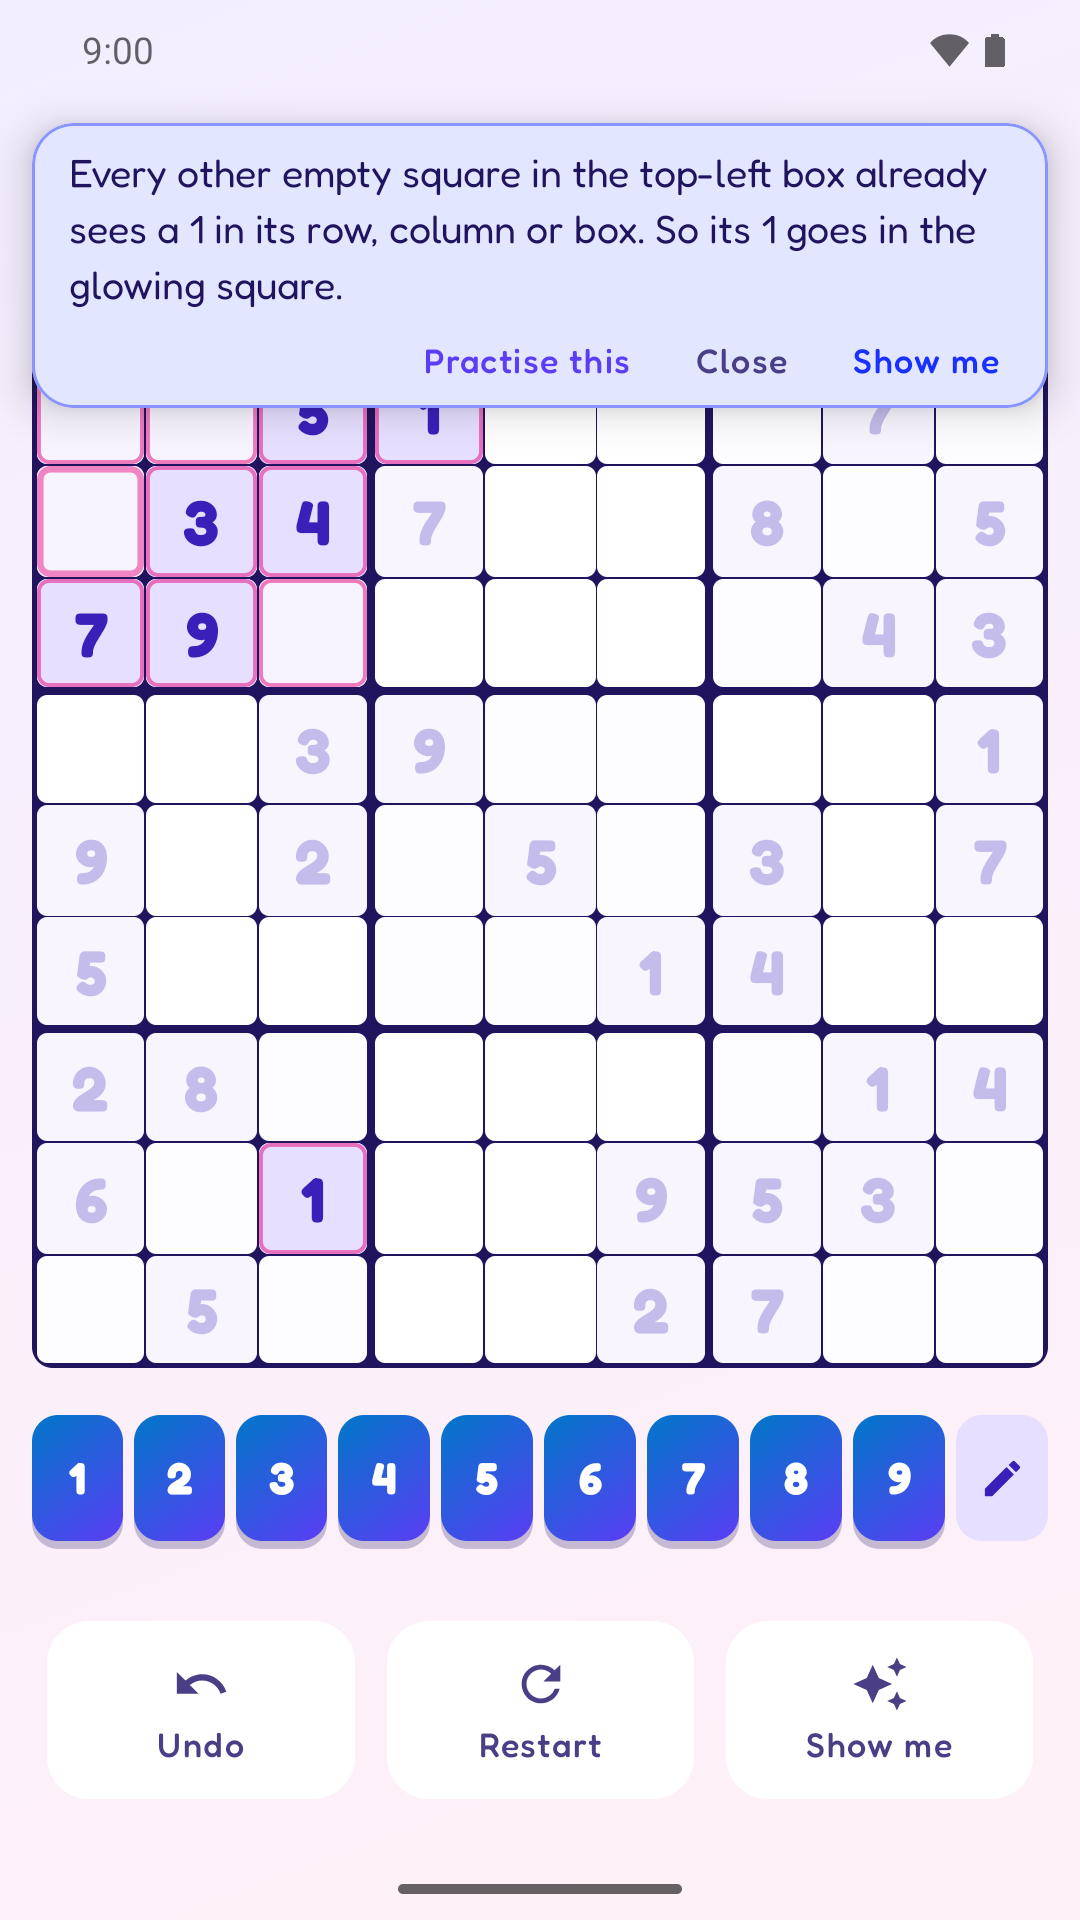
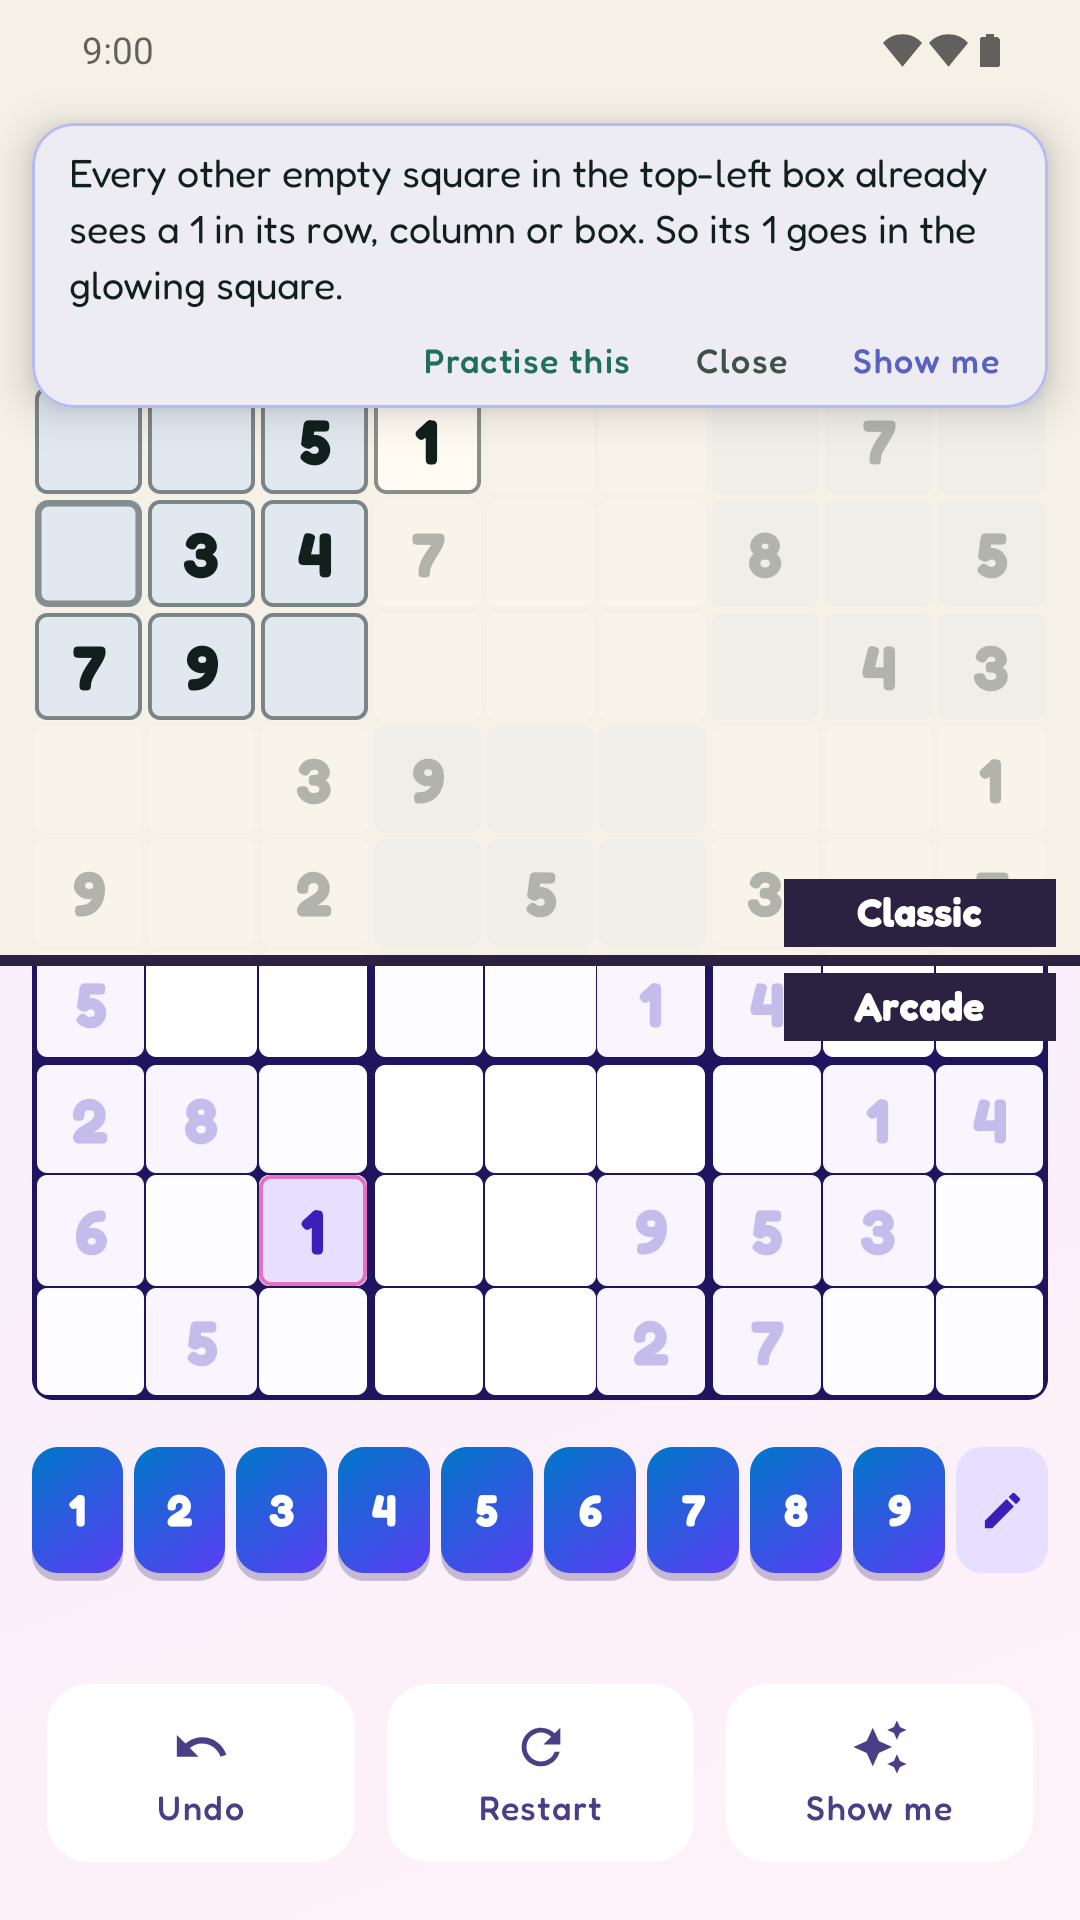
Pick the store games by genre size on Play, and split each by look
The games are now the genres with the biggest Play apps (Sudoku, Word Wheel, Arrows,
Links and Sand at 100M+ installs) plus Lexicon (Wordle's 4.2 billion web solves in
2025); the numbers are in docs/play/LISTING.md. Each game shot is Classic over Arcade
with a tag either side of the seam, like the New Look! home shot.

diff --git a/docs/play/LISTING.md b/docs/play/LISTING.md
@@ -34,11 +34,18 @@ a newspaper's or app's puzzle) may not. Play's policy keeps "free" and "no ads" 
 |---|---|---|
 | App icon | `../../android/play-icon-512.png` | 512x512 |
 | Feature graphic | `feature-graphic.png` | 1024x500, no alpha (`python3 docs/social-preview/make.py`) |
-| Phone screenshots | `screenshots/1-home.png` ... `7-trail.png` | 1080x1920, 9:16 (the first set was 2:1, which Play also accepted). The emulator's own 1080x2400 is over 2:1 |
-| Tablet screenshots (7-inch and 10-inch) | `tablet-screenshots/1-home.png` ... `7-trail.png` | 2560x1440 landscape at 320 dpi (a 1280x720 dp window, so the board sits beside the controls). One set fills both slots |
+| Phone screenshots | `screenshots/1-home.png` ... `8-sand.png` | 1080x1920, 9:16 (the first set was 2:1, which Play also accepted). The emulator's own 1080x2400 is over 2:1 |
+| Tablet screenshots (7-inch and 10-inch) | `tablet-screenshots/1-home.png` ... `8-sand.png` | 2560x1440 landscape at 320 dpi (a 1280x720 dp window, so the board sits beside the controls). One set fills both slots |
 
 The screenshots are emulator captures made by `tools/screenshots/capture.sh` (`wm size 1080x1920`, then 2560x1440 for the tablet set, a clean install, the date pinned to 7 Oct 2026, demo-mode
-status bar: 9:00, no notifications). Run the **Update screenshots** workflow (Actions, manual): it captures, uploads to the listing with `tools/screenshots/upload-play.py` (the service account needs "Manage store presence"; Google reviews the change and the live listing keeps the old images meanwhile) and opens a PR for the `docs/` images, which makes them part of the same "recapture when
+status bar: 9:00, no notifications). The set: the home screen; the home screen in
+Classic over Arcade with "New Look!" across the seam; then six games split the same way (a "Classic" and an "Arcade" tag at
+the seam). The games are the genres with the biggest apps on Play, since the app collects no play counts of its own.
+Play's install brackets, read 2026-11-12: 100M+ for Sudoku (Sudoku.com), Word Wheel (Wordscapes), Arrows (Easybrain's Arrow
+Puzzle), Links (Flow Free) and Sand (SortPuz Water Sort); 50M+ for Nonogram (Easybrain) and Unblock (Unblock Me); 10M+ for
+Lexicon's genre on Play (and Crossword, Cage Sudoku), but Wordle had 4.2 billion web solves in 2025 (NYT), so Lexicon is in.
+Crossword (1.4B NYT Mini solves) and Nonogram are the next to swap in; Mines' genre could not be confirmed past 100K+.
+Run the **Update screenshots** workflow (Actions, manual): it captures, uploads to the listing with `tools/screenshots/upload-play.py` (the service account needs "Manage store presence"; Google reviews the change and the live listing keeps the old images meanwhile) and opens a PR for the `docs/` images, which makes them part of the same "recapture when
 the look changes" duty as `docs/screenshots/`.
 
 ## Declarations

diff --git a/README.md b/README.md
@@ -15,9 +15,9 @@ Each puzzle has a page in the **[player guide](https://knowhowit.com.au/daybook/
 
 | Every puzzle, every day | Sudoku | Lexicon | Word Wheel |
 |---|---|---|---|
-| ![The home screen on day one: the Daily/Random, Levels and Training row over the tier row, today's three (Atoms, Sudoku, Word Wheel) and the grid of all 38 puzzles, gentlest first: Arrows, Pipes, Trail, Sudoku, Lexicon and Sand in view](docs/screenshots/home.png) | ![A Sudoku board with a hint open, offering to practise its technique](docs/screenshots/sudoku.png) | ![A Lexicon board two guesses in, its letters marked](docs/screenshots/lexicon.png) | ![A Word Wheel board](docs/screenshots/word-wheel.png) |
+| ![The home screen on day one: the Daily/Random, Levels and Training row over the tier row, today's three (Atoms, Sudoku, Word Wheel) and the grid of all 38 puzzles, gentlest first: Arrows, Pipes, Trail, Sudoku, Lexicon and Sand in view](docs/screenshots/home.png) | ![A Sudoku board with a hint open, offering to practise its technique, in the Classic look above and Arcade below](docs/screenshots/sudoku.png) | ![A Lexicon board two guesses in, its letters marked, in the Classic look above and Arcade below](docs/screenshots/lexicon.png) | ![A Word Wheel board, in the Classic look above and Arcade below](docs/screenshots/word-wheel.png) |
 
-![On a tablet the board sits beside the title, hints and tools: a Sudoku with a hint open](docs/screenshots/tablet-sudoku.png)
+![On a tablet the board sits beside the title, hints and tools: a Sudoku with a hint open, Classic above and Arcade below](docs/screenshots/tablet-sudoku.png)
 
 ## Install it
 
